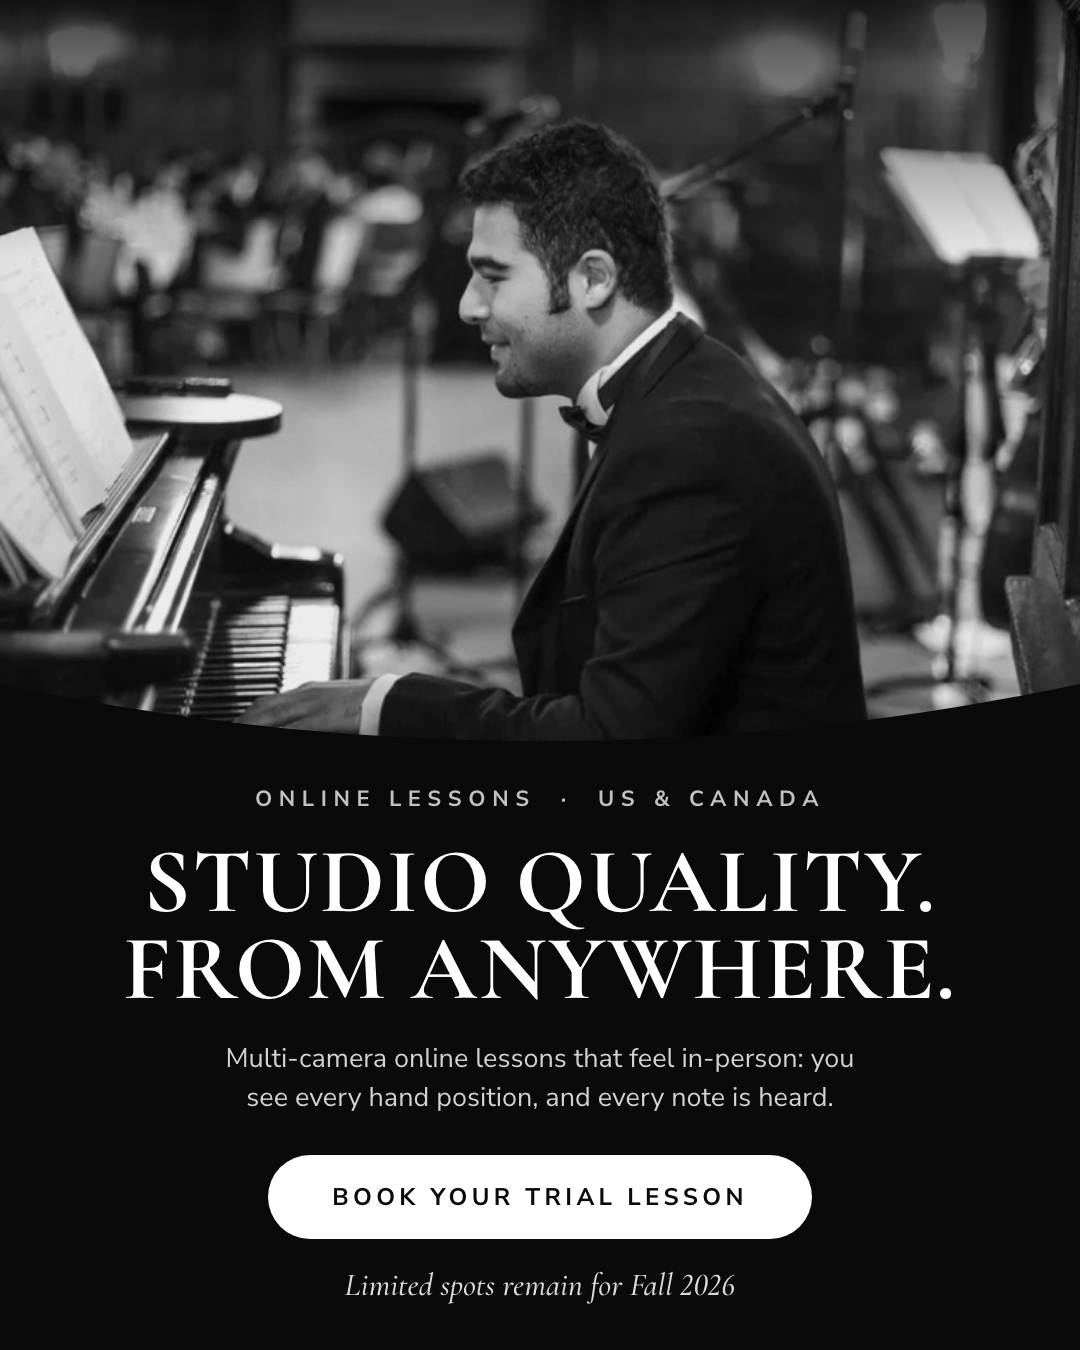
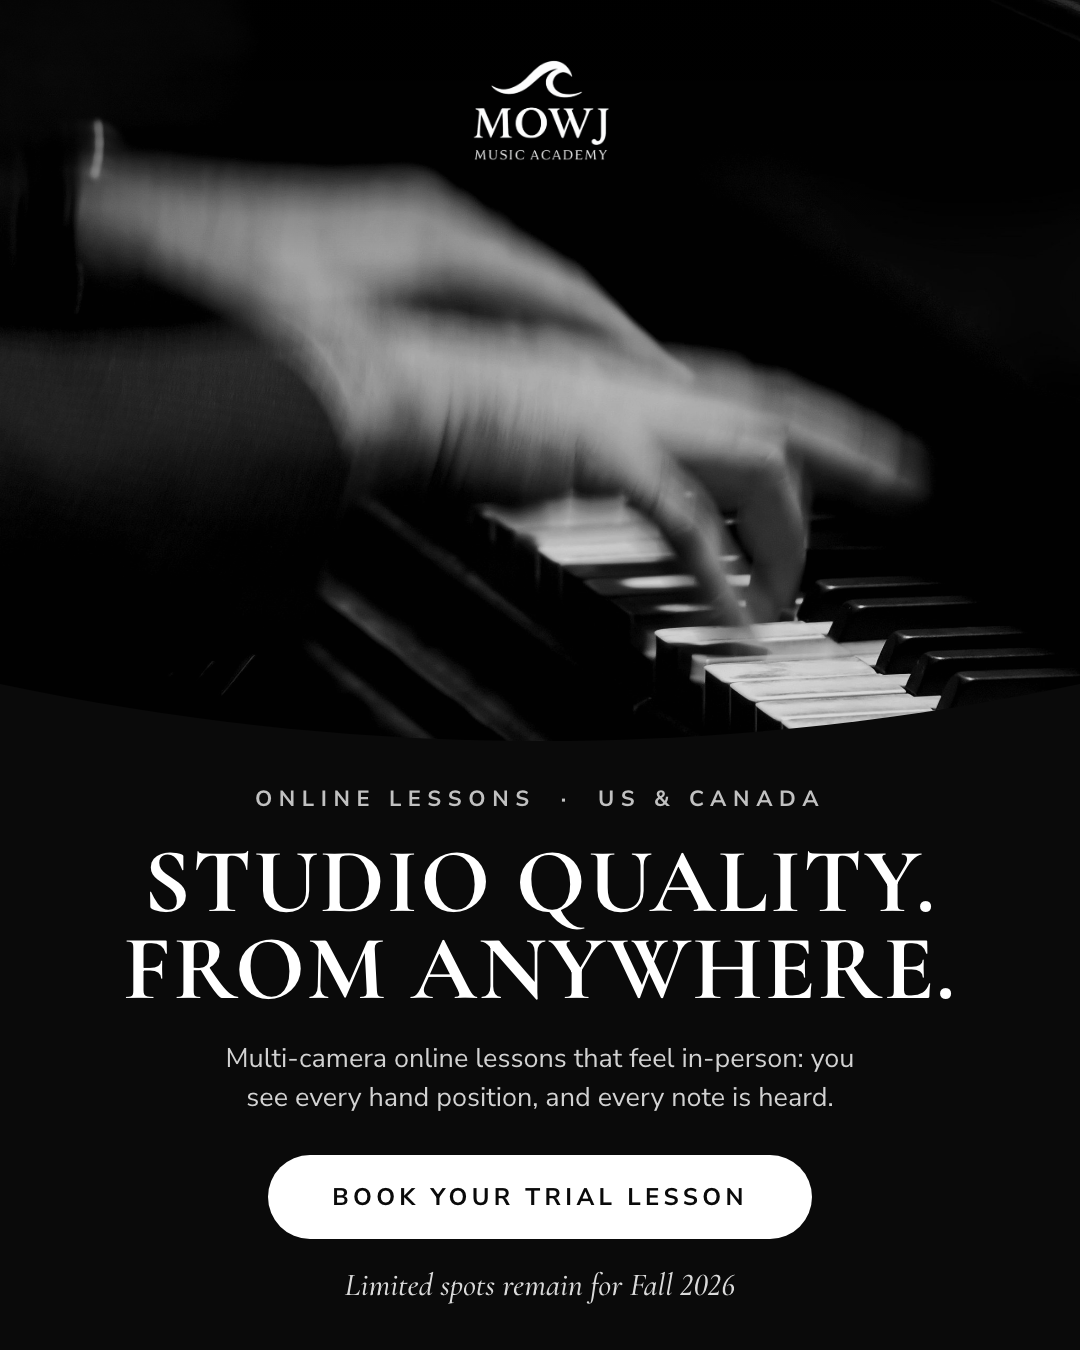
Online ads: credit Steinway Educational Partner; swap performance photo for piano background

diff --git a/social/12-ad-online-studio-quality.html b/social/12-ad-online-studio-quality.html
@@ -8,7 +8,7 @@
 <style>
   .post { background: #0a0a0a; }
   .top { position: absolute; left: 0; top: 0; width: 1080px; height: 760px; }
-  .top .photo { object-position: 50% 20%; opacity: 0.92; }
+  .top .photo { object-position: 45% 55%; opacity: 0.85; }
   .top .shade { position: absolute; inset: 0; background: linear-gradient(180deg, rgba(0,0,0,.72) 0%, rgba(0,0,0,.35) 18%, rgba(0,0,0,0) 34%); }
   .top .logo { position: absolute; top: 56px; left: 50%; transform: translateX(-50%); height: 110px; z-index: 2; }
   .bottom { position: absolute; left: 0; right: 0; top: 742px; bottom: 0; display: flex; flex-direction: column; align-items: center; padding: 42px 90px 0; }
@@ -35,8 +35,9 @@
   </svg>
   <div class="post hero-gradient">
     <div class="top wave-bottom">
-      <img class="photo" src="assets/performing.jpg" alt="" />
+      <img class="photo" src="assets/hands.jpg" alt="" />
       <div class="shade"></div>
+      <img class="logo" src="assets/logo-white.webp" alt="" />
     </div>
     <div class="bottom">
       <p class="eyebrow">Online Lessons &nbsp;·&nbsp; US &amp; Canada</p>

diff --git a/social/11-ad-online-video.html b/social/11-ad-online-video.html
@@ -29,7 +29,7 @@
       <p class="eyebrow">Online Lessons &nbsp;·&nbsp; US &amp; Canada</p>
       <h1 class="title"><span class="dim">A video can&rsquo;t</span><br />hear you play.</h1>
       <p class="more serif">A real teacher can.</p>
-      <p class="tag">Live, one-on-one online lessons with real-time feedback on every note, from a Berklee-trained instructor.</p>
+      <p class="tag">Live, one-on-one online lessons with real-time feedback on every note, from a Steinway Educational Partner.</p>
       <div class="spacer"></div>
       <span class="pill light">Book Your Trial Lesson</span>
       <p class="limited serif">Limited spots remain for Fall 2026</p>

diff --git a/social/COPY.md b/social/COPY.md
@@ -169,7 +169,7 @@ Add these to the online ad set next to Ad 2 (`03-ad-online`), with the 9:16 vers
 
 ### Ad 9 — "A video can't hear you play." · `export/11-ad-online-video.png`
 - **Primary text:** You can learn a lot from tutorials and apps. But they can't hear the wrong note, fix your hand position, or tell you why that passage keeps falling apart.
-  Live, one-on-one online lessons with real-time feedback, from a Berklee-trained instructor. Anywhere in the US & Canada. Limited spots remain for Fall 2026 enrollment.
+  Live, one-on-one online lessons with real-time feedback, from a Steinway Educational Partner. Anywhere in the US & Canada. Limited spots remain for Fall 2026 enrollment.
 - **Headline:** A Real Teacher, Live Online
 - **Description:** Live online lessons · US & Canada
 - **CTA button:** Learn More
